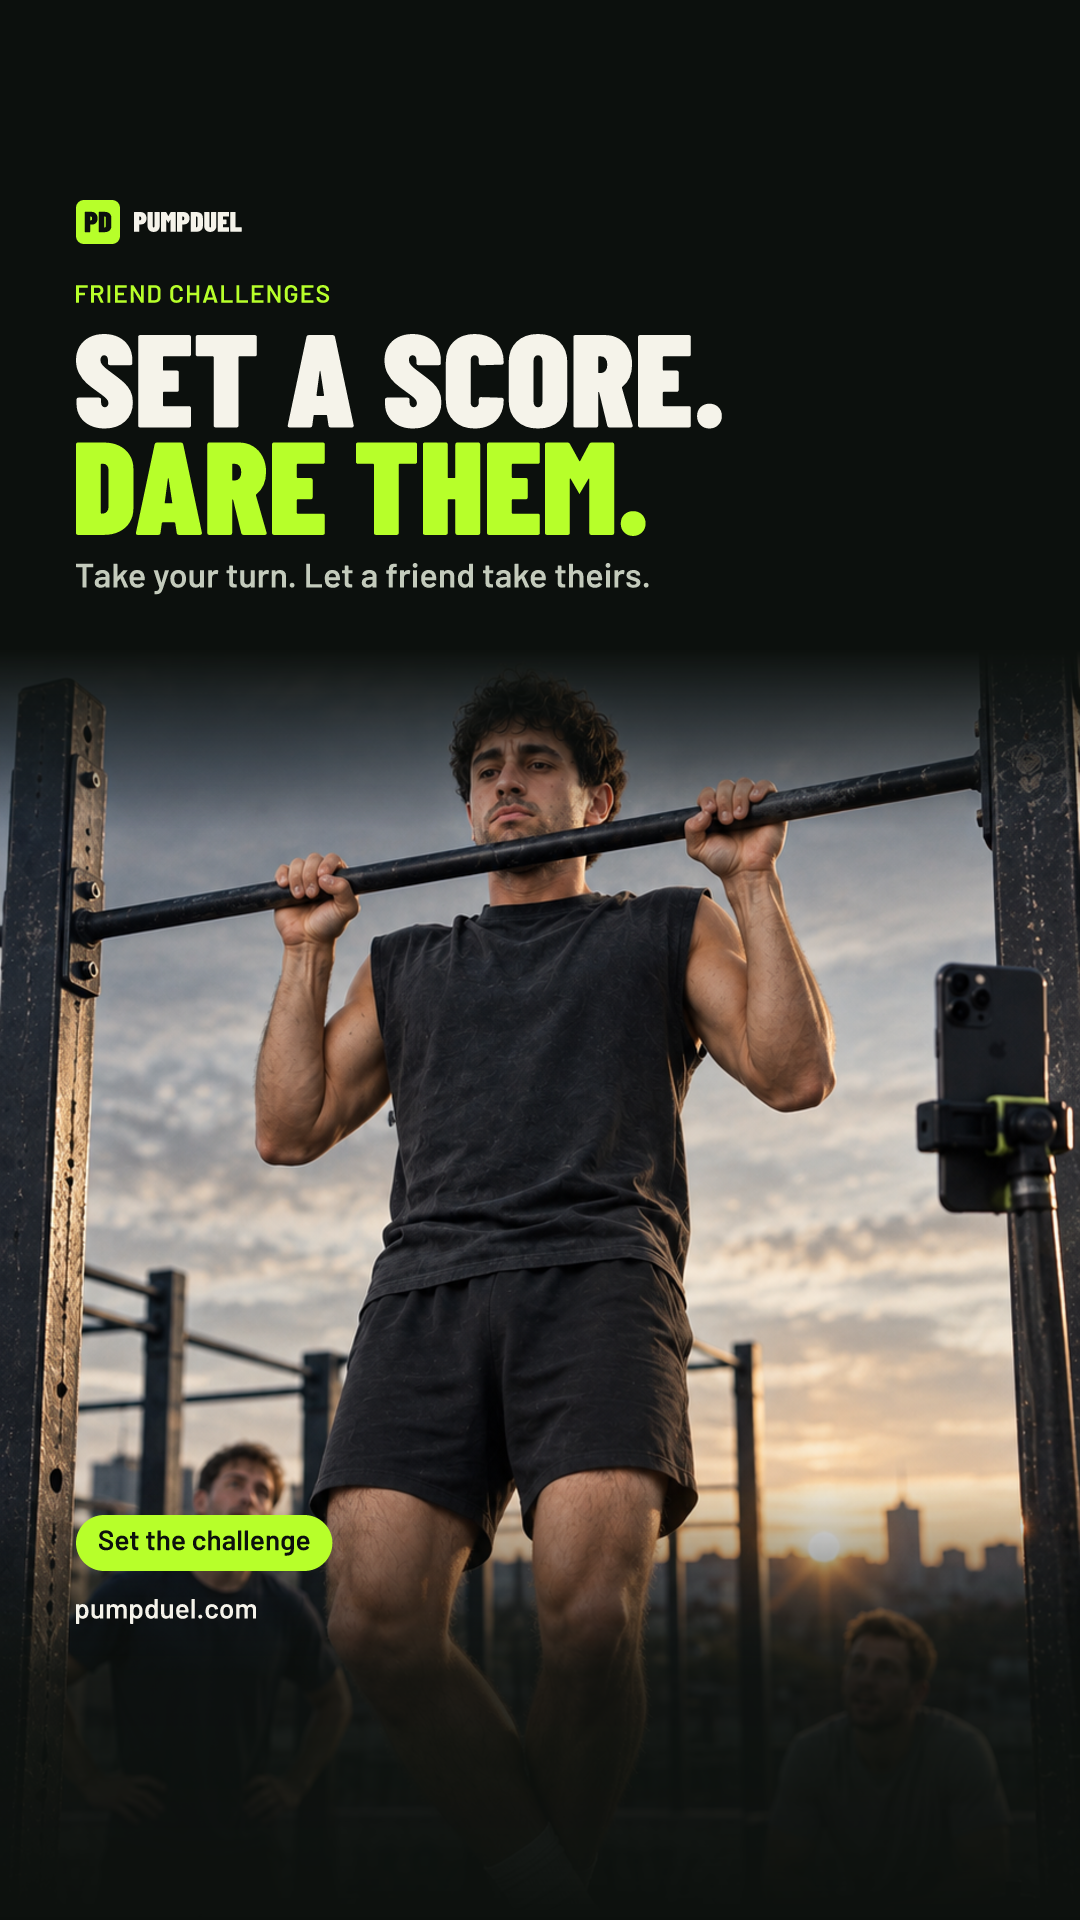
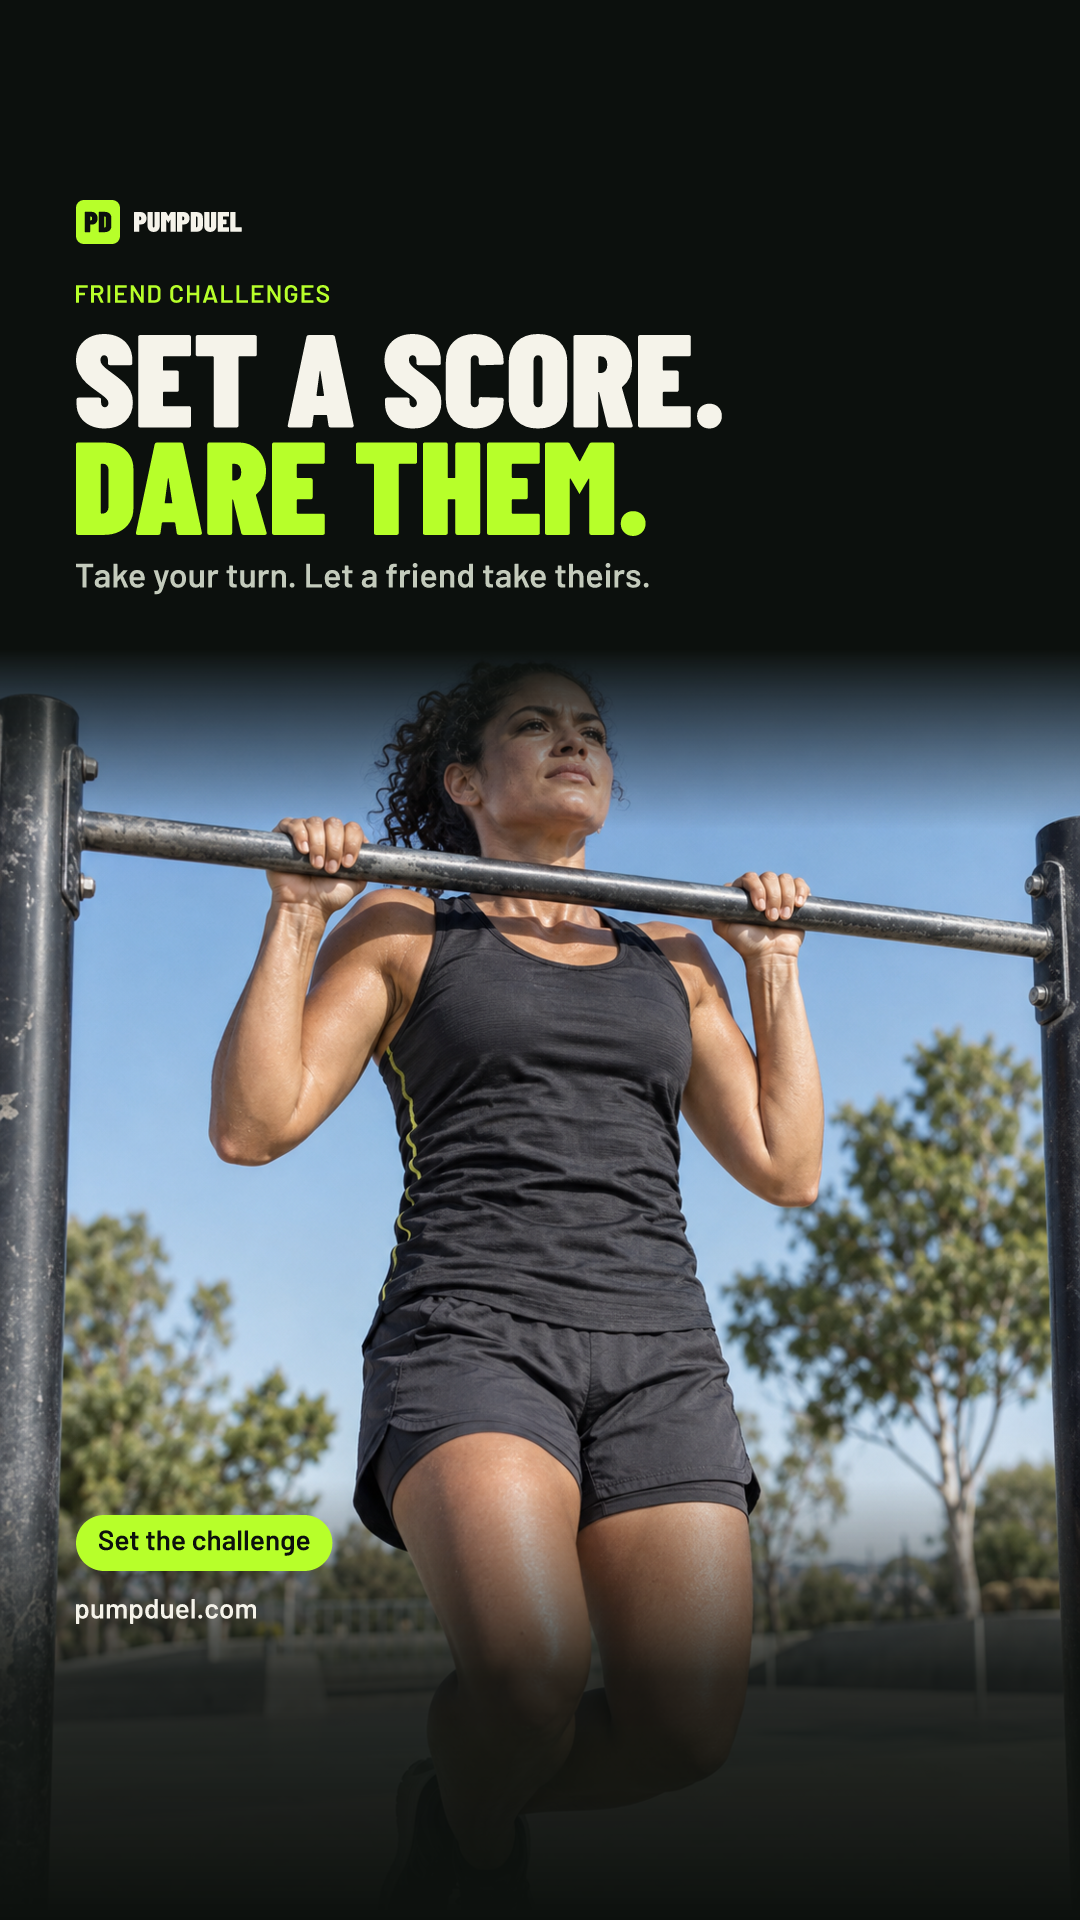
Give every Story slide a unique campaign photograph

diff --git a/README.md b/README.md
@@ -27,7 +27,9 @@ The build copies only the page files, reviewed catalogue assets and required fon
 
 ## Imported material
 
-The 43 public PNGs use three photographic masters, format-specific layouts, outlined PumpDuel typography, profile marks and Highlight covers. Campaign people depict marketing fixtures, not customer results. Photographic master resolution is 1672 × 941 or 941 × 1672; larger output dimensions do not add photographic detail. `IMPORT-AUDIT.json` records the retired first-generation exports and remains excluded from the public build.
+The 43 public PNGs use format-specific layouts, outlined PumpDuel typography, profile marks and Highlight covers. Each of the 12 Instagram Story slides has its own independently generated photograph in `campaign/masters/stories`: different people, settings, actions and camera compositions, including both slides of every pair. The scene assignments, exact generation prompts, dimensions and source hashes are recorded in [campaign/story-scenes.json](campaign/story-scenes.json). These images were made with the built-in image-generation tool. Tests reject missing assignments and repeated source photographs.
+
+The other formats use the three original photographic masters. Story master resolution is 1122 × 1402; the original masters are 1672 × 941 or 941 × 1672. Larger output dimensions do not add photographic detail. Campaign people are AI-generated marketing illustrations, not customers or testimonials. `IMPORT-AUDIT.json` records the retired first-generation exports and remains excluded from the public build.
 
 Run `npm ci` once, then `npm run redesign` to regenerate every platform export and refresh its byte count and SHA-256 integrity record in `catalog.json`. The photographic masters live in `campaign/masters`; output dimensions are preserved. The bundled Barlow Condensed Black and Barlow SemiBold fonts are converted to glyph paths before PNG rendering, so missing system fonts cannot change the design. Both fonts are from [Google Fonts' Barlow family](https://github.com/google/fonts/tree/main/ofl/barlow) under the bundled SIL Open Font License.
 
